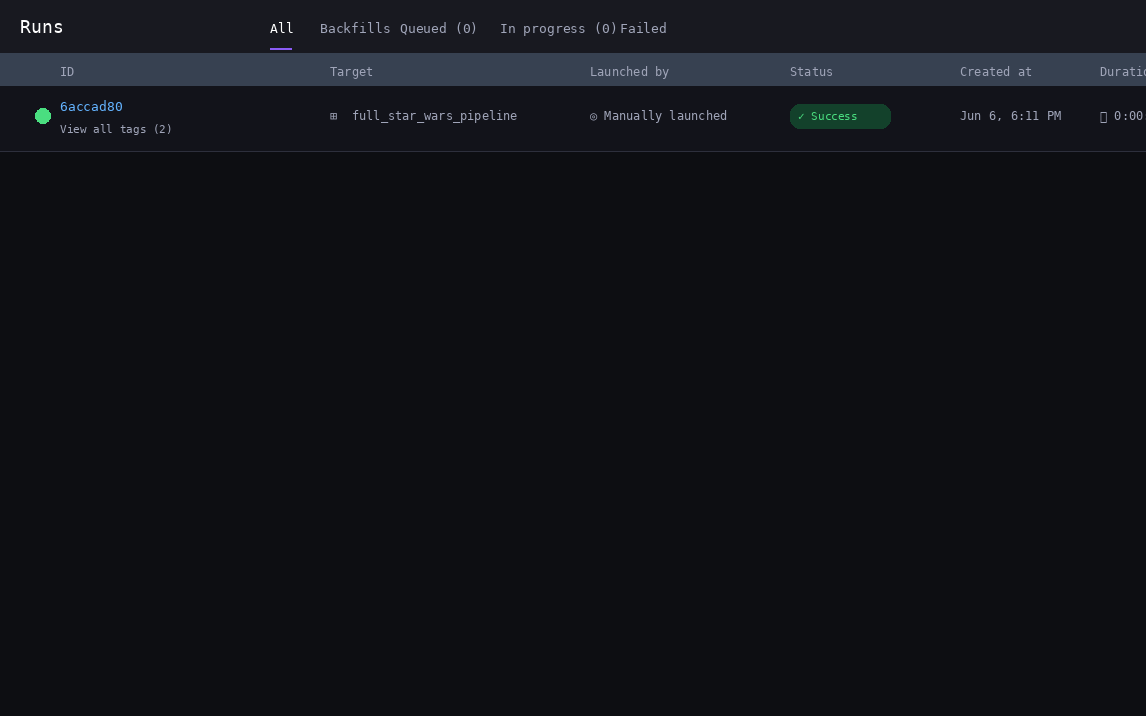
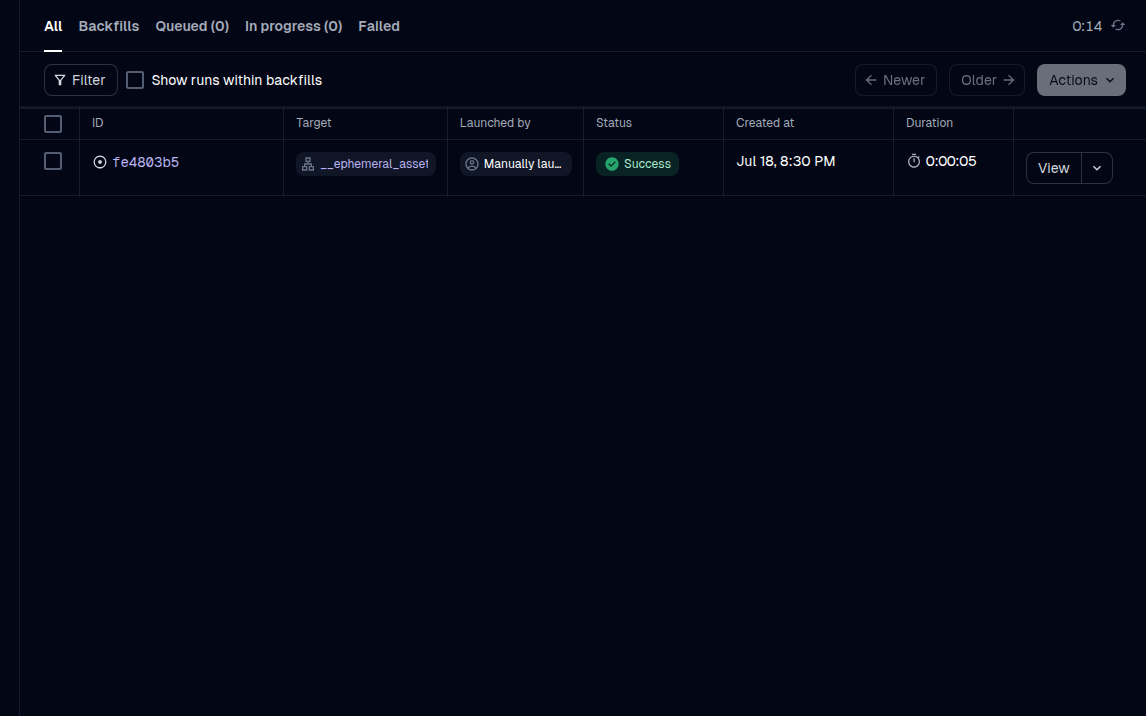
Retake the README screenshots: 13 green asset checks from a live run
Closes the long-standing open item. A real materialization against live
swapi.info (all 11 assets, all 13 checks evaluated and passed - no drift
from the verified snapshot) captured in the Dagster UI: the lineage view
now shows every asset expanded with its check rows green (2/2, 4/4, 4/4,
1/1, 1/1, 1/1), the assets list carries all eleven including
character_stats, and the runs page shows the green run. The open-item note
leaves CLAUDE.md.

Claude-Session: https://claude.ai/code/session_01Lb9W4angGJ3uakPhzaLBLx

diff --git a/CLAUDE.md b/CLAUDE.md
@@ -43,6 +43,3 @@ decision maker and writes the decision log to `.claude/panel/decisions/`.
 - Check strings state invariants — rosters/numbers live only in known_facts.py — and must
   never pre-tell a later story beat's payoff (spoiler pin in test_site_provenance.py);
   DATA.provenance carries no narrative fields; the rail rule is uniform across beats.
-
-Open item: re-materialize locally and retake the three README screenshots so the
-Dagster lineage view shows the 13 green asset checks (needs the desktop UI).